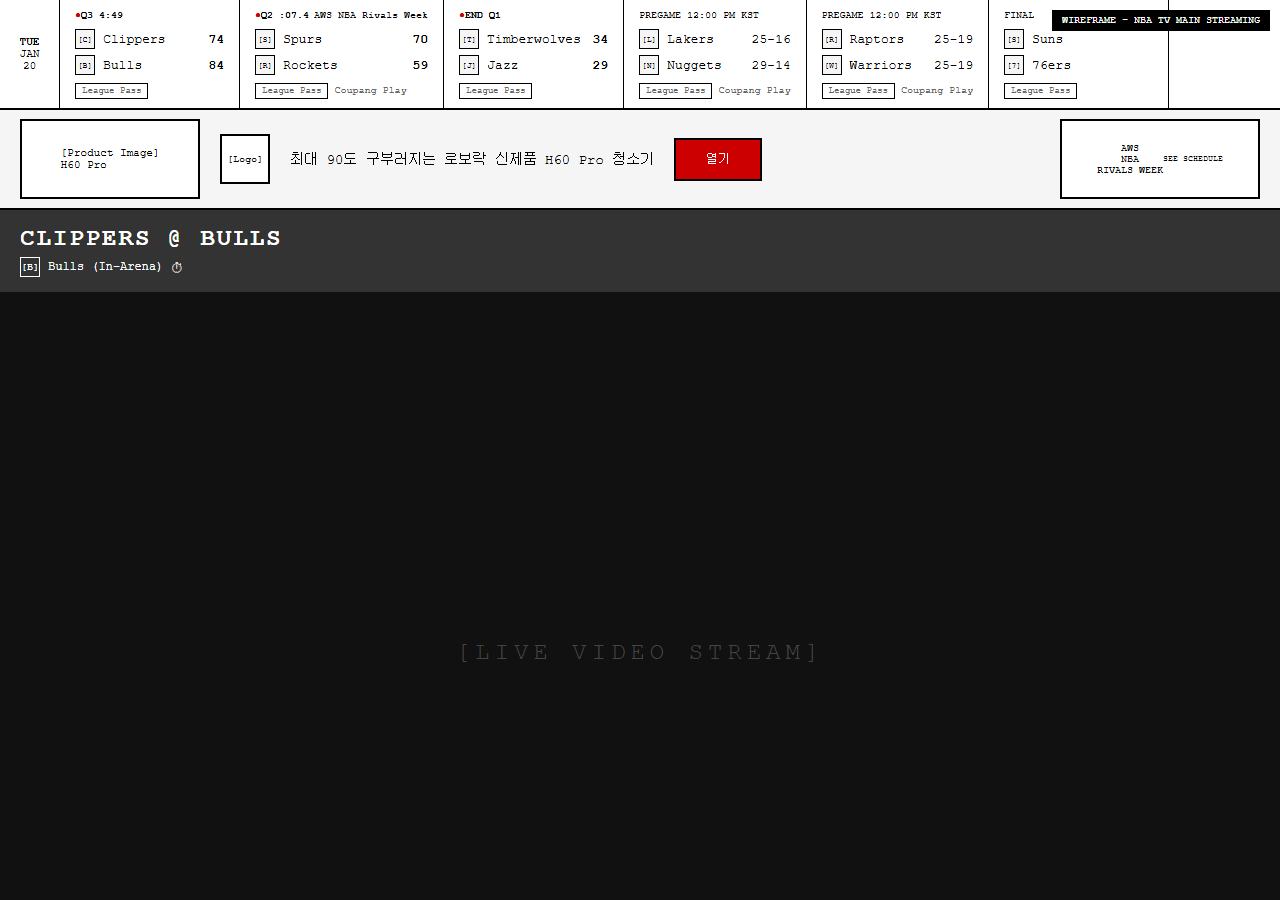
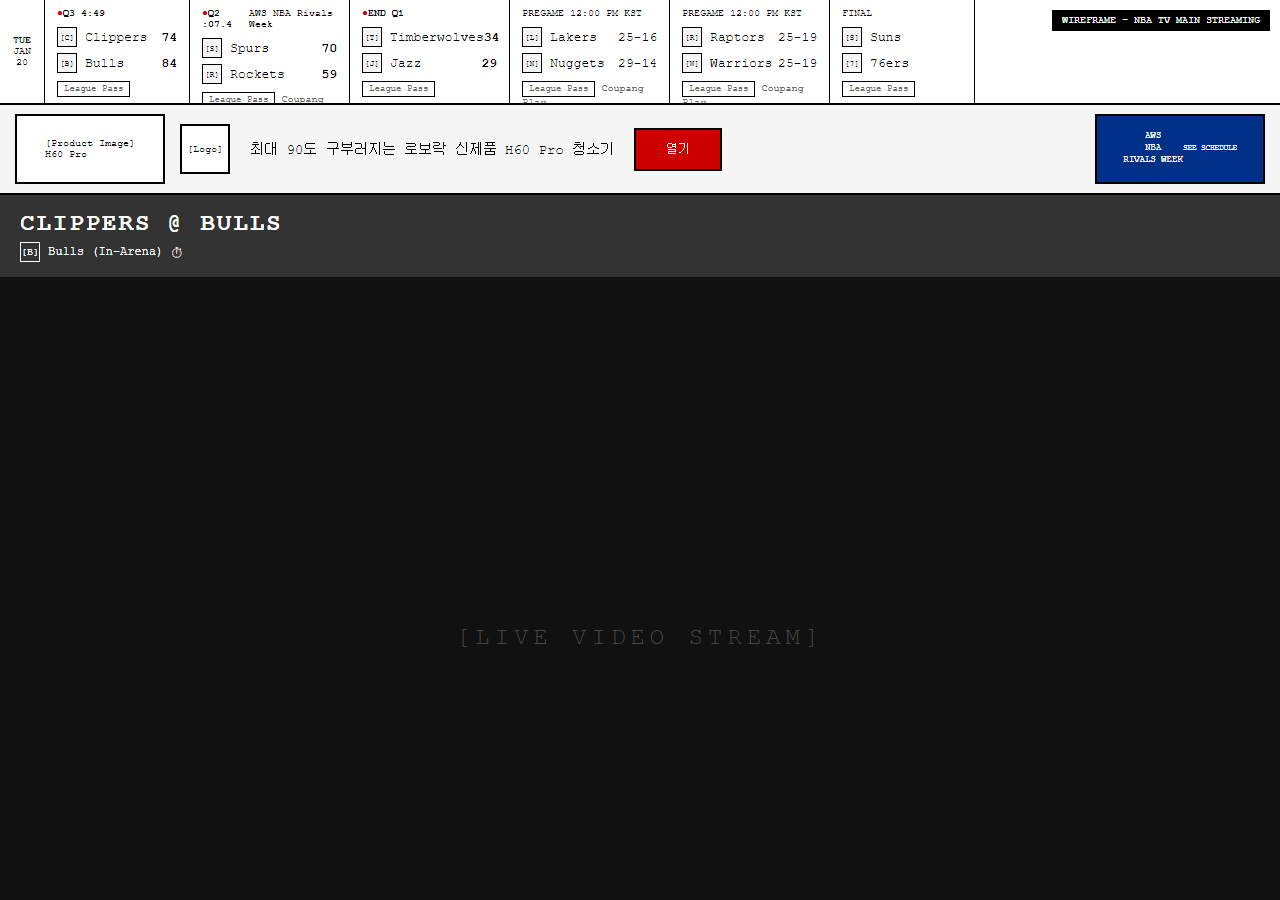
fix(mockups): 레이아웃 사이즈를 분석 목업 기준으로 통일 🎨
- Scoreboard Ticker: 110px → 105px
- Date Column: 60px → 45px
- Game Card: 180px → 145px (min)
- Ad Banner: 100px → 90px
- Stream Tabs: padding 조정 (15px → 12px)
- 문서 레이아웃 명세 동기화
- 스크린샷 재생성

Changed region(s): [[0.0, 0.0, 1.0, 0.3422], [0.5312, 0.6844, 0.625, 0.7467], [0.4688, 0.6844, 0.5, 0.7467]]

diff --git a/docs/mockups/nbatv/01-main-streaming.html b/docs/mockups/nbatv/01-main-streaming.html
@@ -35,16 +35,17 @@
       display: flex;
       border-bottom: var(--border);
       background: #fff;
-      height: 110px;
+      height: 105px;
     }
     .ticker-date {
-      width: 60px;
+      width: 45px;
       display: flex;
       flex-direction: column;
       align-items: center;
       justify-content: center;
       border-right: var(--border-thin);
-      font-size: 11px;
+      font-size: 10px;
+      padding: 5px;
     }
     .ticker-date .day { font-weight: bold; }
     .ticker-games {
@@ -53,8 +54,9 @@
       overflow-x: auto;
     }
     .ticker-game {
-      min-width: 180px;
-      padding: 10px 15px;
+      min-width: 145px;
+      max-width: 160px;
+      padding: 8px 12px;
       border-right: var(--border-thin);
     }
     .game-status {
@@ -110,19 +112,19 @@
     .ad-banner {
       display: flex;
       align-items: center;
-      height: 100px;
+      height: 90px;
       border-bottom: var(--border);
       background: var(--bg-light);
     }
     .ad-image {
-      width: 180px;
-      height: 80px;
-      margin: 0 20px;
+      width: 150px;
+      height: 70px;
+      margin: 0 15px;
       border: var(--border);
       display: flex;
       align-items: center;
       justify-content: center;
-      font-size: 11px;
+      font-size: 10px;
       background: #fff;
     }
     .ad-content {
@@ -154,16 +156,19 @@
       cursor: pointer;
     }
     .ad-promo {
-      width: 200px;
-      height: 80px;
-      margin-right: 20px;
+      width: 170px;
+      height: 70px;
+      margin-right: 15px;
+      margin-left: auto;
       border: var(--border);
       display: flex;
       align-items: center;
       justify-content: center;
-      font-size: 10px;
-      background: #fff;
+      font-size: 9px;
+      background: #003087;
+      color: #fff;
       text-align: center;
+      line-height: 1.3;
     }
 
     /* ========== 3. GAME HEADER ========== */
@@ -212,26 +217,29 @@
     /* ========== 5. STREAM TABS ========== */
     .stream-tabs {
       display: flex;
-      gap: 10px;
-      padding: 15px 20px;
+      gap: 8px;
+      padding: 12px 20px;
       background: var(--bg-dark);
     }
     .stream-tab {
-      padding: 10px 20px;
-      border: var(--border);
-      background: #444;
+      padding: 8px 16px;
+      border: none;
+      background: #555;
       color: #fff;
       font-family: inherit;
-      font-size: 12px;
+      font-size: 11px;
       cursor: pointer;
       display: flex;
       align-items: center;
-      gap: 8px;
-      border-radius: 20px;
+      gap: 6px;
+      border-radius: 18px;
     }
     .stream-tab.active {
       background: #fff;
       color: #000;
+    }
+    .stream-tab:not(.active):hover {
+      background: #666;
     }
     .tab-icon {
       width: 16px;

diff --git a/docs/mockups/wsoptv/01-main-streaming.html b/docs/mockups/wsoptv/01-main-streaming.html
@@ -285,26 +285,29 @@
     /* ========== 5. STREAM TABS (= Tables/MultiView/Featured Hands) ========== */
     .stream-tabs {
       display: flex;
-      gap: 10px;
-      padding: 15px 20px;
+      gap: 8px;
+      padding: 12px 20px;
       background: var(--bg-dark);
     }
     .stream-tab {
-      padding: 10px 20px;
-      border: var(--border);
-      background: #444;
+      padding: 8px 16px;
+      border: none;
+      background: #555;
       color: #fff;
       font-family: inherit;
-      font-size: 12px;
+      font-size: 11px;
       cursor: pointer;
       display: flex;
       align-items: center;
-      gap: 8px;
-      border-radius: 20px;
+      gap: 6px;
+      border-radius: 18px;
     }
     .stream-tab.active {
       background: #fff;
       color: #000;
+    }
+    .stream-tab:not(.active):hover {
+      background: #666;
     }
     .tab-icon {
       width: 16px;

diff --git a/docs/guides/NBATV-UI-ANALYSIS.md b/docs/guides/NBATV-UI-ANALYSIS.md
@@ -17,13 +17,13 @@
 **7단 레이아웃 구조**:
 | # | 컴포넌트 | 높이 | 설명 |
 |:--:|----------|------|------|
-| 1 | Scoreboard Ticker | 110px | 가로 스크롤 경기 목록 |
-| 2 | Ad Banner | 100px | 광고 배너 |
-| 3 | Game Header | 60px | 경기 제목 |
-| 4 | Video Player | 16:9 | 메인 영상 |
-| 5 | Stream Tabs | 50px | Streams/MultiView/Key Plays |
-| 6 | Timeline | 40px | 진행 바 |
-| 7 | Player Controls | 50px | 재생 컨트롤 |
+| 1 | Scoreboard Ticker | 105px | 가로 스크롤 경기 목록 (date: 45px, card: 145px) |
+| 2 | Ad Banner | 90px | 광고 배너 (img: 150x70, promo: 170x70) |
+| 3 | Game Header | 60px | 경기 제목 (padding: 15px 20px) |
+| 4 | Video Player | 16:9 | 메인 영상 (~480px @1280w) |
+| 5 | Stream Tabs | 55px | Streams/MultiView/Key Plays (btn: 8px 16px, radius: 18px) |
+| 6 | Timeline | 40px | 진행 바 (bar: 4px) |
+| 7 | Player Controls | 65px | 재생 컨트롤 (btn: 36x36, large: 44x44) |
 
 ---
 
@@ -32,15 +32,18 @@
 ### [1] SCOREBOARD TICKER
 
 **위치**: 화면 최상단
-**높이**: 약 110px
+**높이**: 105px
 **배경**: 흰색 (#FFFFFF)
 
 **Date Column 구조**:
-- 요일 (TUE) - bold, 14px
+- 요일 (TUE) - bold, 10px
 - 월 (JAN)
 - 일 (20)
 - 배경: 연회색 (#F5F5F5)
-- 너비: 60px
+- 너비: 45px
+- padding: 5px
+
+**Game Card 너비**: 145px (min) ~ 160px (max)
 
 **Game Card 구조**:
 | 영역 | 내용 |
@@ -69,14 +72,14 @@
 ### [2] AD BANNER
 
 **위치**: Scoreboard Ticker 아래
-**높이**: 약 100px
+**높이**: 90px
 **구조**: 3열 레이아웃
 
 | 영역 | 크기 | 내용 |
 |------|------|------|
-| 좌측 | 150x80px | 이미지 광고 |
-| 중앙 | flex | 텍스트 + CTA 버튼 (빨간색) |
-| 우측 | auto | 프로모션 카드 |
+| 좌측 | 150x70px | 이미지 광고 (margin: 0 15px) |
+| 중앙 | flex | 로고(50x50) + 텍스트 + CTA 버튼 |
+| 우측 | 170x70px | 프로모션 카드 (#003087 배경) |
 
 ---
 
@@ -109,8 +112,8 @@
 ### [5] STREAM TABS
 
 **위치**: Video Player 아래
-**높이**: 약 50px
-**배경**: 진회색 (#E0E0E0)
+**높이**: 55px (padding: 12px 20px)
+**배경**: 진회색 (#333)
 
 **탭 구성**:
 | 탭 | 아이콘 | 라벨 | 배지 |
@@ -120,10 +123,11 @@
 | Key Plays | 🔥 | Key Plays | - |
 
 **탭 스타일**:
-- 배경: 검정 pill 모양
-- 텍스트: 흰색
-- 아이콘: 좌측
-- 배지: 우측 (border 박스)
+- 배경: #555 pill 모양 (active: #fff)
+- padding: 8px 16px
+- font-size: 11px
+- border-radius: 18px
+- gap: 8px
 
 ---
 
@@ -149,8 +153,8 @@
 > **HTML 목업**: [`nbatv/07-player-controls.html`](../mockups/nbatv/07-player-controls.html)
 
 **위치**: 화면 최하단
-**높이**: 약 50px
-**배경**: 검정색 (#000000) 또는 흰색
+**높이**: 65px (padding: 15px 20px)
+**배경**: 진회색 (#333) + 상단 border (#444)
 
 **좌측 컨트롤**:
 | 순서 | 아이콘 | 기능 |
